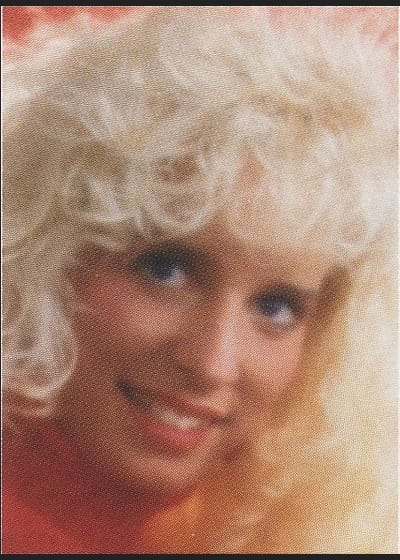
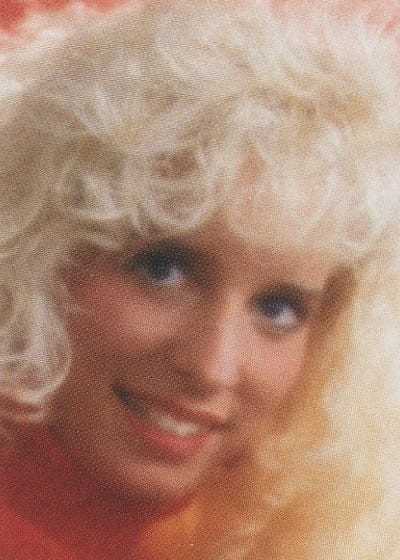
fixed some yearbook photos that were not cropped correctly; added hover-gallery base functionality

Changed region(s): [[0.0, 0.0, 1.0, 1.0], [0.81, 0.2732, 0.9, 0.3339]]

diff --git a/_src/_assets/js/holder.min.js b/_src/_assets/js/holder.min.js
@@ -1,0 +1,14 @@
+/*!
+
+Holder - client side image placeholders
+Version 2.9.7+5g5ho
+© 2020 Ivan Malopinsky - https://imsky.co
+
+Site:     http://holderjs.com
+Issues:   https://github.com/imsky/holder/issues
+License:  MIT
+
+*/
[1 lines of base64/hex data omitted]
+
+t.fillText(g.properties.text,m,v)}}return e.toDataURL("image/png")}}()}])}),function(e,t){t&&(Holder=e.Holder)}(this,"undefined"!=typeof Meteor&&"undefined"!=typeof Package);

diff --git a/_src/_app.js b/_src/_app.js
@@ -31,6 +31,36 @@ injectGlobal`
   @layer base {
     [x-cloak] { @apply hidden; }
     h1,h2,h3,h4,h5,h6 { @apply font-black; }
+    .hover-gallery {
+      --items: 1;
+      @apply w-full gap-px overflow-hidden [grid-template-columns:repeat(var(--items),1fr)];
+      &,&:is(figure) { @apply inline-grid; }
+      &:has(> :nth-child(3)) { --items: 2; }
+      &:has(> :nth-child(4)) { --items: 3; }
+      &:has(> :nth-child(5)) { --items: 4; }
+      &:has(> :nth-child(6)) { --items: 5; }
+      &:has(> :nth-child(7)) { --items: 6; }
+      &:has(> :nth-child(8)) { --items: 7; }
+      &:has(> :nth-child(9)) { --items: 8; }
+      &:has(> :nth-child(10)) { --items: 9; }
+      & > * {
+        @apply w-full h-full object-cover opacity-0;
+        grid-row: 1;
+        &:nth-child(1) { grid-column: 1 / -1; opacity: 1; }
+        &:nth-child(2) { grid-column: 1; }
+        &:nth-child(3) { grid-column: 2; }
+        &:nth-child(4) { grid-column: 3; }
+        &:nth-child(5) { grid-column: 4; }
+        &:nth-child(6) { grid-column: 5; }
+        &:nth-child(7) { grid-column: 6; }
+        &:nth-child(8) { grid-column: 7; }
+        &:nth-child(9) { grid-column: 8; }
+        &:nth-child(10) { grid-column: 9; }
+        &:nth-child(n + 11) { display: none; }
+      }
+      & > *:hover { grid-column: 1 / -1; opacity: 1; }
+      &:has(*:hover) { & > :nth-child(1) { @apply hidden; } }
+    }
   }
 `
 
